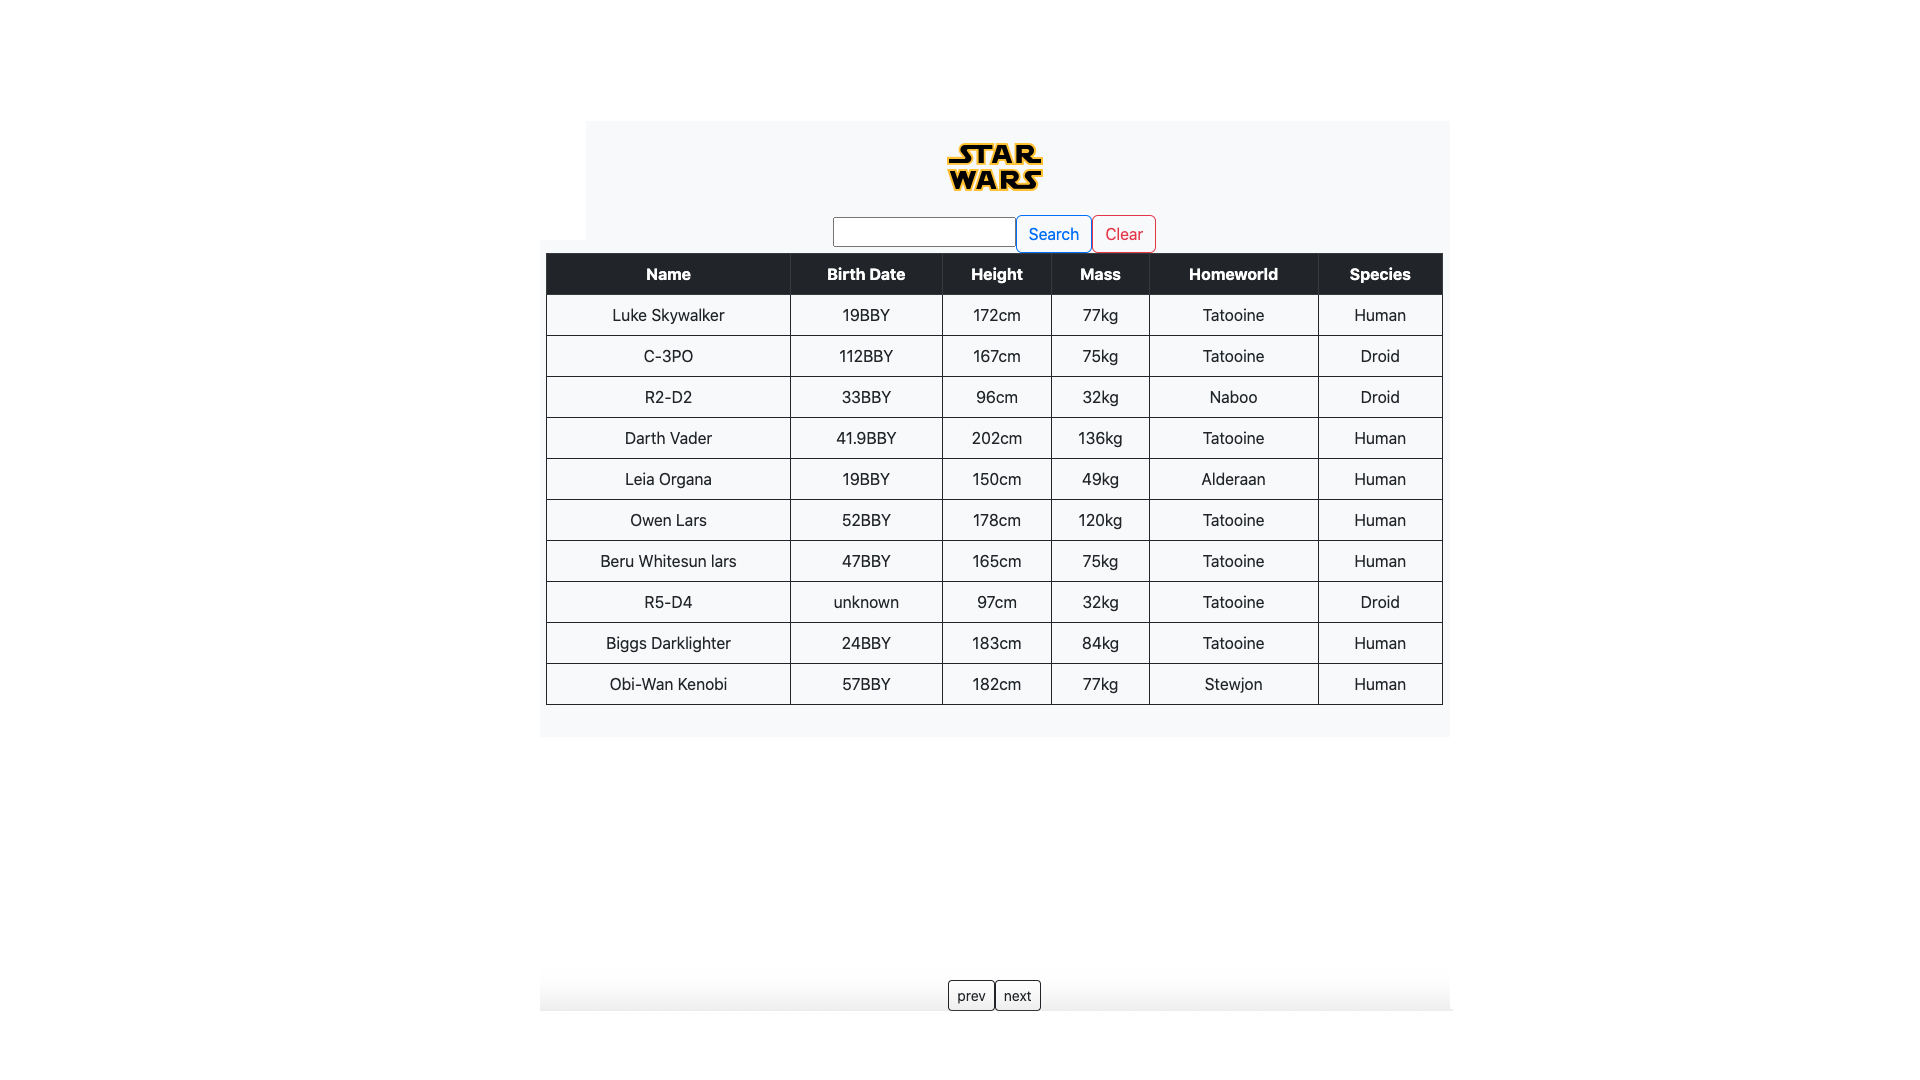
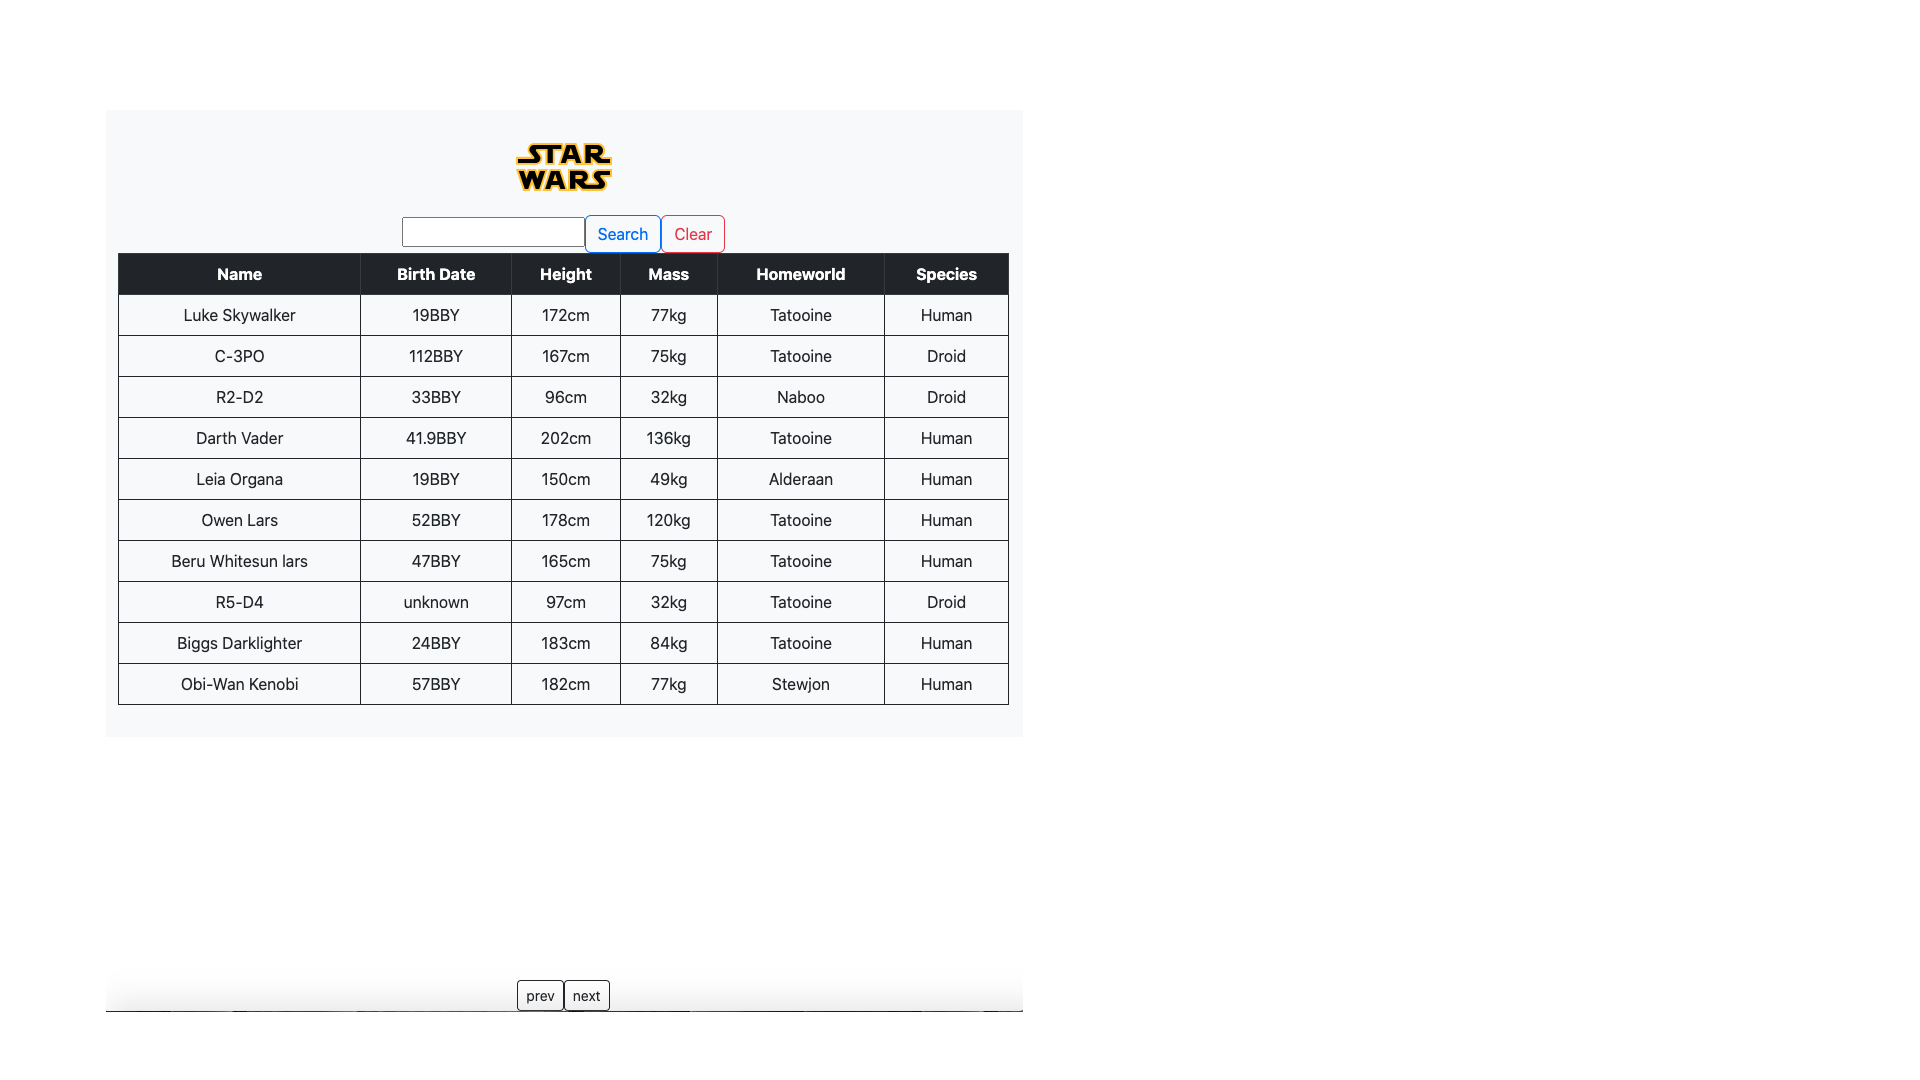
refactorI

diff --git a/src/App.js b/src/App.js
@@ -1,11 +1,14 @@
 import "./App.css";
 import React, { useEffect, useState } from "react";
-import Header from "./Header";
+import Header from "./components/Header";
 import axios from "axios";
+import FormInput from "./components/FormInput";
+import TableView from "./components/TableView";
+import Footer from "./components/Footer";
 
 function App() {
   const [people, setPeople] = useState([]);
-  const [nextUrl, setnextUrl] = useState();
+  const [nextUrl, setNextUrl] = useState();
   const [prevUrl, setprevUrl] = useState();
   const [userInput, setuserInput] = useState();
 
@@ -26,7 +29,7 @@ function App() {
         }
       }
       setPeople(response.data.results);
-      setnextUrl(response.data.next);
+      setNextUrl(response.data.next);
       setprevUrl(response.data.previous);
     });
   };
@@ -61,12 +64,11 @@ function App() {
       });
   };
 
-
   const getprevPage = () => {
     getPeople(prevUrl);
   };
 
-  const getNewPage = () => {
+  const getNextPage = () => {
     getPeople(nextUrl);
   };
 
@@ -93,46 +95,13 @@ function App() {
   return (
     <div className="table-responsive p-3 mb-2 bg-light text-dark">
       <Header />
-      <form
-        onSubmit={handleSubmit}
-        onReset={() => {
-          getPeople("https://swapi.dev/api/people/");
-        }}
-      >
-        <input onChange={updateForm} />
-        <button type="submit" className="btn btn-outline-primary">
-          Search
-        </button>
-        <button type="reset" className="btn btn-outline-danger">
-          Clear
-        </button>
-      </form>
-      <table caption="page 1" className="table table-bordered border-dark">
-        <tbody className="table-dark">
-          <tr>
-            <th>Name</th>
-            <th>Birth Date</th>
-            <th>Height</th>
-            <th>Mass</th>
-            <th>Homeworld</th>
-            <th>Species</th>
-          </tr>
-        </tbody>
-        {populateTable}
-      </table>
-      <div className="row">
-        <footer className="fixed-bottom">
-          <button className="btn btn-outline-dark btn-sm" onClick={getprevPage}>
-            prev
-          </button>
-          <button
-            className="btn btn-outline-dark btn-sm float-right"
-            onClick={getNewPage}
-          >
-            next
-          </button>
-        </footer>
-      </div>
+      <FormInput
+        handleSubmit={handleSubmit}
+        getPeople={getPeople}
+        updateForm={updateForm}
+      />
+      <TableView populateTable={populateTable} />
+      <Footer nextUrl={nextUrl} prevUrl={prevUrl} getprevPage={getprevPage} getNextPage={getNextPage} />
     </div>
   );
 }

diff --git a/src/components/Footer.js b/src/components/Footer.js
@@ -1,0 +1,46 @@
+import React from "react";
+
+function Footer({ nextUrl, prevUrl, getprevPage, getNextPage }) {
+  const prevPage = () => {
+    if (prevUrl) {
+      return (
+        <button className="btn btn-outline-dark btn-sm" onClick={getprevPage}>
+          prev
+        </button>
+      );
+    } else {
+      return;
+    }
+  };
+
+  const nextPage = () => {
+    if (nextUrl) {
+      return (
+        <button
+          className="btn btn-outline-dark btn-sm float-right"
+          onClick={getNextPage}
+        >
+          next
+        </button>
+      );
+    } else {
+      return;
+    }
+  };
+
+  const prevPageButton = prevPage();
+  const nextPageButton = nextPage();
+
+  return (
+    <div>
+          <div className="row">
+              <footer className="fixed-bottom">
+                  {prevPageButton}
+                  {nextPageButton}
+              </footer>
+      </div>
+    </div>
+  );
+}
+
+export default Footer;

diff --git a/src/components/FormInput.js b/src/components/FormInput.js
@@ -1,0 +1,24 @@
+import React from 'react'
+
+function FormInput({handleSubmit,getPeople,updateForm}) {
+  return (
+    <div>
+        <form
+        onSubmit={handleSubmit}
+        onReset={() => {
+          getPeople("https://swapi.dev/api/people/");
+        }}
+      >
+        <input onChange={updateForm} />
+        <button type="submit" className="btn btn-outline-primary">
+          Search
+        </button>
+        <button type="reset" className="btn btn-outline-danger">
+          Clear
+        </button>
+      </form>
+    </div>
+  )
+}
+
+export default FormInput;

diff --git a/src/components/TableView.js b/src/components/TableView.js
@@ -1,0 +1,23 @@
+import React from 'react'
+
+function TableView({populateTable}) {
+  return (
+    <div>
+        <table caption="page 1" className="table table-bordered border-dark">
+        <tbody className="table-dark">
+          <tr>
+            <th>Name</th>
+            <th>Birth Date</th>
+            <th>Height</th>
+            <th>Mass</th>
+            <th>Homeworld</th>
+            <th>Species</th>
+          </tr>
+        </tbody>
+        {populateTable}
+      </table>
+    </div>
+  )
+}
+
+export default TableView

diff --git a/src/components/Header.js b/src/components/Header.js
@@ -1,4 +1,4 @@
-import pic from "./pic.png";
+import pic from "../pic/pic.png";
 
 function Header() {
   return (

diff --git a/README.md b/README.md
@@ -2,11 +2,10 @@
 
 ### Star Wars API app made with JavaScript, HTML, CSS, React and Bootstrap.
 
-![App Picture](./StarWars.png)
+![App Picture](./StarWars.png\)
 
-# Click here for the App
 
-[SWAPI APP](https://magenta-crisp-21b3fc.netlify.app)
+[Click here for the app](https://magenta-crisp-21b3fc.netlify.app)
 
 ## Summary
 
